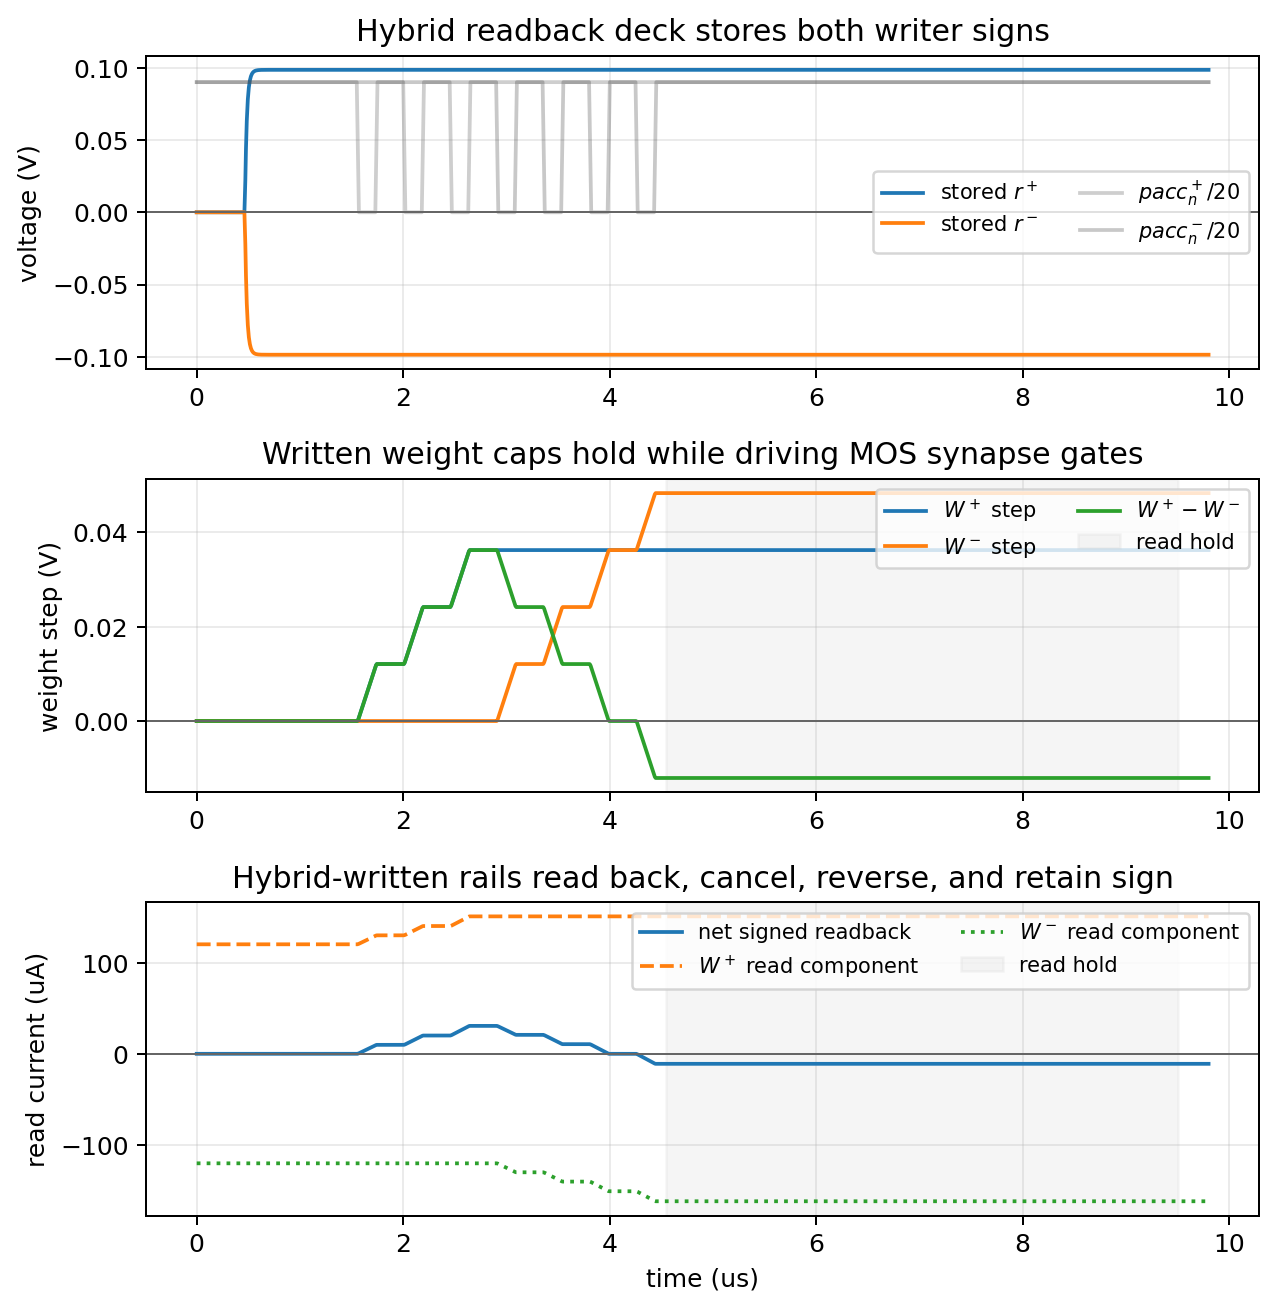
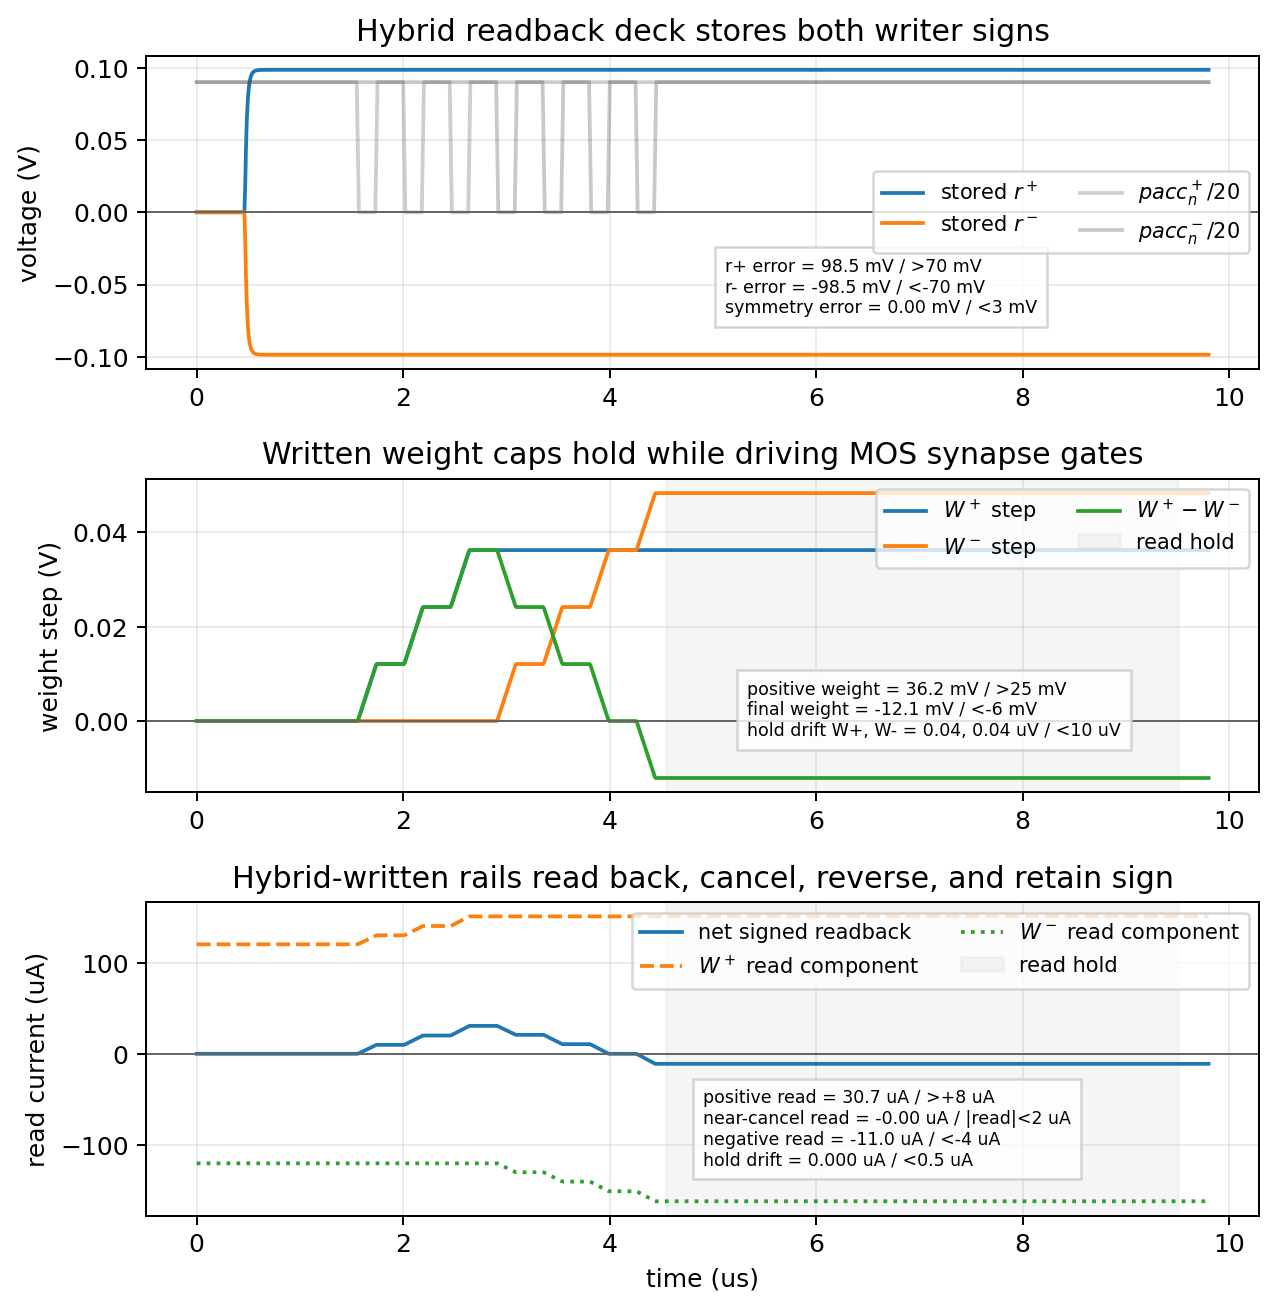
Annotate hybrid writer core margins

Changed region(s): [[0.5497, 0.8251, 0.794, 0.9167], [0.5803, 0.5195, 0.8857, 0.5806], [0.5497, 0.1833, 0.8246, 0.2445]]

diff --git a/spice/run_mos_cell_characterization.py b/spice/run_mos_cell_characterization.py
@@ -15644,6 +15644,8 @@ quit
     hyr_wp_steps = np.array([hyrat(ts, hyr_wp) - hyrat(1.45e-6, hyr_wp) for ts in hyr_sample_times])
     hyr_wm_steps = np.array([hyrat(ts, hyr_wm) - hyrat(1.45e-6, hyr_wm) for ts in hyr_sample_times])
     hyr_increments = np.diff(hyr_steps)
+    hyr_increment_ratio = np.min(hyr_increments) / np.max(hyr_increments)
+    hyr_hold_error = abs(hyrat(4.60e-6, hyr_diff) - hyr_steps[-1])
     require(hyrat(1.35e-6, hyr_hidden) > 0.07, "hybrid repeated deck should store a positive hidden error")
     require(hyrat(1.45e-6, hyr_selected_gate) < 0.30, "hybrid repeated selected restored gate should be low")
     require(hyrat(1.45e-6, hyr_complement_gate) > 1.60, "hybrid repeated complement restored gate should be high")
@@ -15651,8 +15653,8 @@ quit
     require(hyr_steps[-1] > 0.080, "hybrid repeated write should build a large readable differential")
     require(hyr_steps[-1] < 0.20, "hybrid repeated write should remain incremental across seven pulses")
     require(np.max(hyr_wm_steps) < 5e-4, "hybrid repeated complement rail should remain suppressed")
-    require(np.min(hyr_increments) > 0.45 * np.max(hyr_increments), "hybrid repeated increments should not collapse over seven pulses")
-    require(abs(hyrat(4.60e-6, hyr_diff) - hyr_steps[-1]) < 5e-4, "hybrid repeated write should hold after pulse train")
+    require(hyr_increment_ratio > 0.45, "hybrid repeated increments should not collapse over seven pulses")
+    require(hyr_hold_error < 5e-4, "hybrid repeated write should hold after pulse train")
 
     hyr_fig, hyr_axes = plt.subplots(2, 1, figsize=(7.2, 5.8))
     hyr_axes[0].plot(1e6 * hyrt, hyr_hidden, label="stored $r^+$ hidden error")
@@ -15662,6 +15664,19 @@ quit
     hyr_axes[0].set_ylabel("voltage (V)")
     hyr_axes[0].set_title("Hybrid repeated writer reuses one stored hidden-error rail")
     hyr_axes[0].grid(True, alpha=0.25)
+    hyr_axes[0].text(
+        0.55,
+        0.20,
+        "hidden error = "
+        f"{1e3 * hyrat(1.35e-6, hyr_hidden):.1f} mV / >70 mV\n"
+        "selected gate = "
+        f"{hyrat(1.45e-6, hyr_selected_gate):.2f} V / <0.30 V\n"
+        "complement gate = "
+        f"{hyrat(1.45e-6, hyr_complement_gate):.2f} V / >1.60 V",
+        transform=hyr_axes[0].transAxes,
+        fontsize="x-small",
+        bbox={"facecolor": "white", "alpha": 0.82, "edgecolor": "0.8"},
+    )
     hyr_axes[0].legend(loc="center right", fontsize="small")
     hyr_axes[1].plot(1e6 * hyrt, hyr_wp - hyrat(1.45e-6, hyr_wp), label="selected $W^+$ step")
     hyr_axes[1].plot(1e6 * hyrt, hyr_wm - hyrat(1.45e-6, hyr_wm), label="complement $W^-$ step")
@@ -15672,6 +15687,21 @@ quit
     hyr_axes[1].set_ylabel("writer step (V)")
     hyr_axes[1].set_title("Repeated hybrid pacc pulses accumulate while complement stays off")
     hyr_axes[1].grid(True, alpha=0.25)
+    hyr_axes[1].text(
+        0.52,
+        0.18,
+        "final signed step = "
+        f"{1e3 * hyr_steps[-1]:.1f} mV / 80-200 mV\n"
+        "max complement step = "
+        f"{1e3 * np.max(hyr_wm_steps):.3f} mV / <0.5 mV\n"
+        "min/max increment = "
+        f"{hyr_increment_ratio:.2f} / >0.45\n"
+        "hold error = "
+        f"{1e3 * hyr_hold_error:.3f} mV / <0.5 mV",
+        transform=hyr_axes[1].transAxes,
+        fontsize="x-small",
+        bbox={"facecolor": "white", "alpha": 0.82, "edgecolor": "0.8"},
+    )
     hyr_axes[1].legend(loc="upper left", ncol=2, fontsize="small")
     hyr_fig.tight_layout()
     save_plot(hyr_fig, "mos_hidden_writer_restored_gate_hybrid_repeated_ngspice")
@@ -15790,9 +15820,12 @@ quit
     hyc_wm_steps = np.array([hycat(ts, hyc_wm) - hyc_initial_wm for ts in hyc_sample_times])
     hyc_pos_phase_steps = hyc_steps[:3]
     hyc_neg_phase_steps = hyc_steps[3:]
+    hyc_hidden_symmetry_error = abs(hycat(1.35e-6, hyc_hidden_pos + hyc_hidden_neg))
+    hyc_wp_hold_during_neg = np.max(np.abs(hyc_wp_steps[3:] - hyc_wp_steps[2]))
+    hyc_final_hold_error = abs(hycat(4.65e-6, hyc_diff) - hyc_steps[-1])
     require(hycat(1.35e-6, hyc_hidden_pos) > 0.07, "hybrid alternating r+ store should be positive")
     require(hycat(1.35e-6, hyc_hidden_neg) < -0.07, "hybrid alternating r- store should be negative")
-    require(abs(hycat(1.35e-6, hyc_hidden_pos + hyc_hidden_neg)) < 0.003, "hybrid alternating hidden-error stores should be symmetric")
+    require(hyc_hidden_symmetry_error < 0.003, "hybrid alternating hidden-error stores should be symmetric")
     require(hycat(1.45e-6, hyc_pos_selected_gate) < 0.30, "hybrid alternating r+ selected restored gate should be low")
     require(hycat(1.45e-6, hyc_pos_complement_gate) > 1.60, "hybrid alternating r+ complement restored gate should be high")
     require(hycat(1.45e-6, hyc_neg_selected_gate) < 0.30, "hybrid alternating r- selected restored gate should be low")
@@ -15802,9 +15835,9 @@ quit
     require(np.all(np.diff(hyc_neg_phase_steps) < -0.010), "hybrid alternating negative pulses should reduce signed weight")
     require(hyc_neg_phase_steps[0] < hyc_pos_phase_steps[-1] - 0.010, "first negative pulse should partially cancel the positive state")
     require(hyc_neg_phase_steps[-1] < -0.006, "extra negative pulse should cross the same signed weight below zero")
-    require(np.max(np.abs(hyc_wp_steps[3:] - hyc_wp_steps[2])) < 5e-4, "hybrid alternating W+ rail should hold during negative pulses")
+    require(hyc_wp_hold_during_neg < 5e-4, "hybrid alternating W+ rail should hold during negative pulses")
     require(np.min(np.diff(hyc_wm_steps[2:])) > 0.010, "hybrid alternating W- rail should accumulate during negative pulses")
-    require(abs(hycat(4.65e-6, hyc_diff) - hyc_steps[-1]) < 5e-4, "hybrid alternating signed weight should hold after final pulse")
+    require(hyc_final_hold_error < 5e-4, "hybrid alternating signed weight should hold after final pulse")
 
     hyc_fig, hyc_axes = plt.subplots(2, 1, figsize=(7.2, 5.8))
     hyc_axes[0].plot(1e6 * hyct, hyc_hidden_pos, label="stored $r^+$")
@@ -15817,6 +15850,21 @@ quit
     hyc_axes[0].set_ylabel("voltage (V)")
     hyc_axes[0].set_title("Hybrid alternating writer stores both hidden-error signs")
     hyc_axes[0].grid(True, alpha=0.25)
+    hyc_axes[0].text(
+        0.05,
+        0.15,
+        "r+ error = "
+        f"{1e3 * hycat(1.35e-6, hyc_hidden_pos):.1f} mV / >70 mV\n"
+        "r- error = "
+        f"{1e3 * hycat(1.35e-6, hyc_hidden_neg):.1f} mV / <-70 mV\n"
+        "symmetry error = "
+        f"{1e3 * hyc_hidden_symmetry_error:.2f} mV / <3 mV\n"
+        "selected gates = "
+        f"{hycat(1.45e-6, hyc_pos_selected_gate):.2f}, {hycat(1.45e-6, hyc_neg_selected_gate):.2f} V / <0.30 V",
+        transform=hyc_axes[0].transAxes,
+        fontsize="x-small",
+        bbox={"facecolor": "white", "alpha": 0.82, "edgecolor": "0.8"},
+    )
     hyc_axes[0].legend(loc="center right", ncol=2, fontsize="small")
     hyc_axes[1].plot(1e6 * hyct, hyc_wp - hyc_initial_wp, label="$W^+$ step")
     hyc_axes[1].plot(1e6 * hyct, hyc_wm - hyc_initial_wm, label="$W^-$ step")
@@ -15827,6 +15875,21 @@ quit
     hyc_axes[1].set_ylabel("writer step (V)")
     hyc_axes[1].set_title("Same weight pair accumulates, cancels, and crosses sign")
     hyc_axes[1].grid(True, alpha=0.25)
+    hyc_axes[1].text(
+        0.54,
+        0.18,
+        "positive phase final = "
+        f"{1e3 * hyc_pos_phase_steps[-1]:.1f} mV\n"
+        "final signed step = "
+        f"{1e3 * hyc_steps[-1]:.1f} mV / <-6 mV\n"
+        "W+ negative-phase drift = "
+        f"{1e3 * hyc_wp_hold_during_neg:.3f} mV / <0.5 mV\n"
+        "post-train hold error = "
+        f"{1e3 * hyc_final_hold_error:.3f} mV / <0.5 mV",
+        transform=hyc_axes[1].transAxes,
+        fontsize="x-small",
+        bbox={"facecolor": "white", "alpha": 0.82, "edgecolor": "0.8"},
+    )
     hyc_axes[1].legend(loc="upper left", ncol=2, fontsize="small")
     hyc_fig.tight_layout()
     save_plot(hyc_fig, "mos_hidden_writer_restored_gate_hybrid_alternating_ngspice")
@@ -15954,9 +16017,13 @@ quit
     hyd_negative_read = hydat(4.55e-6, hyd_net_read)
     hyd_hold_start = 4.55e-6
     hyd_hold_end = 9.5e-6
+    hyd_hidden_symmetry_error = abs(hydat(1.35e-6, hyd_hidden_pos + hyd_hidden_neg))
+    hyd_wp_hold_drift = abs(hydat(hyd_hold_end, hyd_wp) - hydat(hyd_hold_start, hyd_wp))
+    hyd_wm_hold_drift = abs(hydat(hyd_hold_end, hyd_wm) - hydat(hyd_hold_start, hyd_wm))
+    hyd_read_hold_drift = abs(hydat(hyd_hold_end, hyd_net_read) - hydat(hyd_hold_start, hyd_net_read))
     require(hydat(1.35e-6, hyd_hidden_pos) > 0.07, "hybrid readback r+ store should be positive")
     require(hydat(1.35e-6, hyd_hidden_neg) < -0.07, "hybrid readback r- store should be negative")
-    require(abs(hydat(1.35e-6, hyd_hidden_pos + hyd_hidden_neg)) < 0.003, "hybrid readback hidden-error stores should be symmetric")
+    require(hyd_hidden_symmetry_error < 0.003, "hybrid readback hidden-error stores should be symmetric")
     require(hydat(1.45e-6, hyd_cols[4]) < 0.30, "hybrid readback r+ selected gate should be low")
     require(hydat(1.45e-6, hyd_cols[5]) > 1.60, "hybrid readback r+ complement gate should be high")
     require(hydat(1.45e-6, hyd_cols[7]) < 0.30, "hybrid readback r- selected gate should be low")
@@ -15967,9 +16034,9 @@ quit
     require(hyd_negative_read < hyd_baseline_read - 4e-6, "hybrid extra W- pulse should read back as a negative contribution")
     require(hydat(2.75e-6, hyd_weight) > 0.025, "hybrid readback W+ pulses should build positive stored weight")
     require(hydat(hyd_hold_start, hyd_weight) < -0.006, "hybrid readback final stored weight should be negative")
-    require(abs(hydat(hyd_hold_end, hyd_wp) - hydat(hyd_hold_start, hyd_wp)) < 1e-5, "hybrid readback should not disturb W+ cap during hold")
-    require(abs(hydat(hyd_hold_end, hyd_wm) - hydat(hyd_hold_start, hyd_wm)) < 1e-5, "hybrid readback should not disturb W- cap during hold")
-    require(abs(hydat(hyd_hold_end, hyd_net_read) - hydat(hyd_hold_start, hyd_net_read)) < 0.5e-6, "hybrid read current should hold after writes")
+    require(hyd_wp_hold_drift < 1e-5, "hybrid readback should not disturb W+ cap during hold")
+    require(hyd_wm_hold_drift < 1e-5, "hybrid readback should not disturb W- cap during hold")
+    require(hyd_read_hold_drift < 0.5e-6, "hybrid read current should hold after writes")
 
     hyd_fig, hyd_axes = plt.subplots(3, 1, figsize=(7.2, 7.4))
     hyd_axes[0].plot(1e6 * hydt, hyd_hidden_pos, label="stored $r^+$")
@@ -15980,6 +16047,19 @@ quit
     hyd_axes[0].set_ylabel("voltage (V)")
     hyd_axes[0].set_title("Hybrid readback deck stores both writer signs")
     hyd_axes[0].grid(True, alpha=0.25)
+    hyd_axes[0].text(
+        0.52,
+        0.18,
+        "r+ error = "
+        f"{1e3 * hydat(1.35e-6, hyd_hidden_pos):.1f} mV / >70 mV\n"
+        "r- error = "
+        f"{1e3 * hydat(1.35e-6, hyd_hidden_neg):.1f} mV / <-70 mV\n"
+        "symmetry error = "
+        f"{1e3 * hyd_hidden_symmetry_error:.2f} mV / <3 mV",
+        transform=hyd_axes[0].transAxes,
+        fontsize="x-small",
+        bbox={"facecolor": "white", "alpha": 0.82, "edgecolor": "0.8"},
+    )
     hyd_axes[0].legend(loc="center right", ncol=2, fontsize="small")
     hyd_axes[1].plot(1e6 * hydt, hyd_wp - hydat(1.45e-6, hyd_wp), label="$W^+$ step")
     hyd_axes[1].plot(1e6 * hydt, hyd_wm - hydat(1.45e-6, hyd_wm), label="$W^-$ step")
@@ -15989,6 +16069,19 @@ quit
     hyd_axes[1].set_ylabel("weight step (V)")
     hyd_axes[1].set_title("Written weight caps hold while driving MOS synapse gates")
     hyd_axes[1].grid(True, alpha=0.25)
+    hyd_axes[1].text(
+        0.54,
+        0.18,
+        "positive weight = "
+        f"{1e3 * hydat(2.75e-6, hyd_weight):.1f} mV / >25 mV\n"
+        "final weight = "
+        f"{1e3 * hydat(hyd_hold_start, hyd_weight):.1f} mV / <-6 mV\n"
+        "hold drift W+, W- = "
+        f"{1e6 * hyd_wp_hold_drift:.2f}, {1e6 * hyd_wm_hold_drift:.2f} uV / <10 uV",
+        transform=hyd_axes[1].transAxes,
+        fontsize="x-small",
+        bbox={"facecolor": "white", "alpha": 0.82, "edgecolor": "0.8"},
+    )
     hyd_axes[1].legend(loc="upper right", ncol=2, fontsize="small")
     hyd_axes[2].plot(1e6 * hydt, 1e6 * hyd_net_read, label="net signed readback")
     hyd_axes[2].plot(1e6 * hydt, 1e6 * hyd_pos_read, "--", label="$W^+$ read component")
@@ -15999,6 +16092,21 @@ quit
     hyd_axes[2].set_ylabel("read current (uA)")
     hyd_axes[2].set_title("Hybrid-written rails read back, cancel, reverse, and retain sign")
     hyd_axes[2].grid(True, alpha=0.25)
+    hyd_axes[2].text(
+        0.50,
+        0.16,
+        "positive read = "
+        f"{1e6 * hyd_positive_read:.1f} uA / >+8 uA\n"
+        "near-cancel read = "
+        f"{1e6 * hyd_near_cancel_read:.2f} uA / |read|<2 uA\n"
+        "negative read = "
+        f"{1e6 * hyd_negative_read:.1f} uA / <-4 uA\n"
+        "hold drift = "
+        f"{1e6 * hyd_read_hold_drift:.3f} uA / <0.5 uA",
+        transform=hyd_axes[2].transAxes,
+        fontsize="x-small",
+        bbox={"facecolor": "white", "alpha": 0.82, "edgecolor": "0.8"},
+    )
     hyd_axes[2].legend(loc="upper right", ncol=2, fontsize="small")
     hyd_fig.tight_layout()
     save_plot(hyd_fig, "mos_hidden_writer_restored_gate_hybrid_readback_ngspice")

diff --git a/engineering_log.md b/engineering_log.md
@@ -2,6 +2,20 @@
 
 ## 2026-05-25
 
+- Clarified the core hybrid writer accumulation/readback plots.  The repeated,
+  alternating, and readback ngspice decks already asserted hidden-error
+  storage, restored-gate selectivity, monotone same-sign accumulation,
+  opposite-sign cancellation, readback sign reversal, and hold/read-disturb
+  limits.  The regenerated
+  `mos_hidden_writer_restored_gate_hybrid_repeated_ngspice`,
+  `mos_hidden_writer_restored_gate_hybrid_alternating_ngspice`, and
+  `mos_hidden_writer_restored_gate_hybrid_readback_ngspice` plots now label
+  those margins directly: repeated writes reach \(85.9\) mV with zero visible
+  complement step and no post-train hold error; alternating writes build to
+  \(36.8\) mV, cancel, and cross to \(-12.3\) mV while \(W^+\) holds during
+  the negative phase; continuous MOS readback reports \(30.7\,\mu\)A,
+  near-zero cancellation, \(-11.0\,\mu\)A after the extra negative pulse, and
+  no visible read-current hold drift.
 - Clarified the isolated forward-tail-bias plot.  The ngspice sweep already
   asserted that this bias keeps a valid read state, leaves the stored
   preactivation essentially unchanged, increases stored activation
